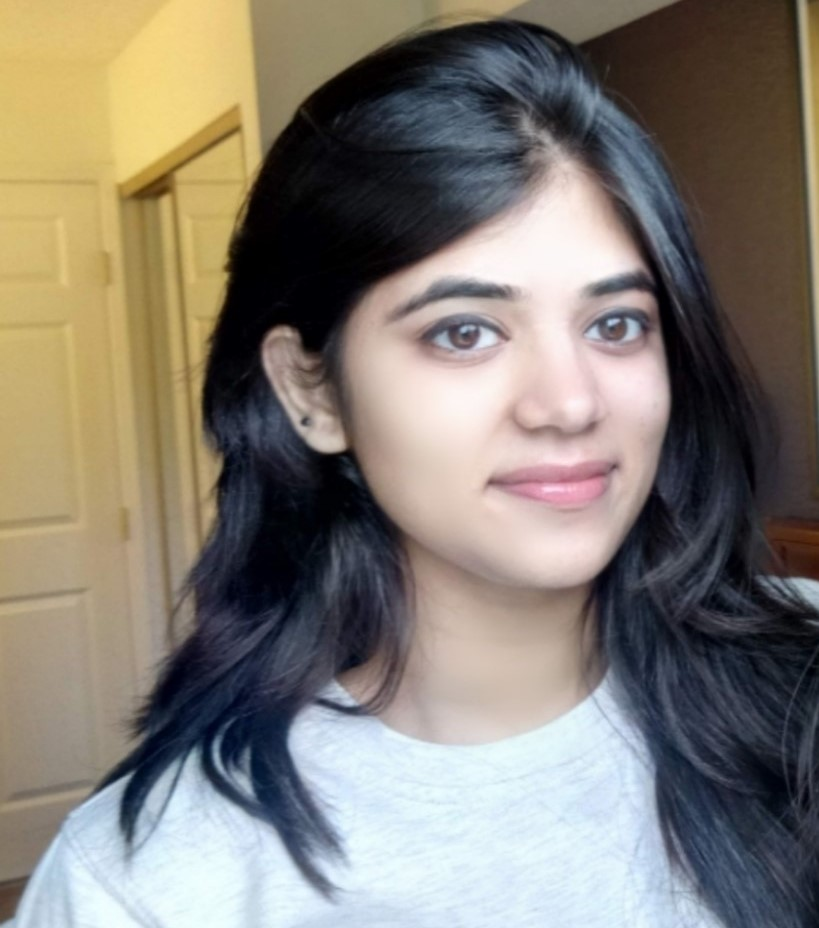
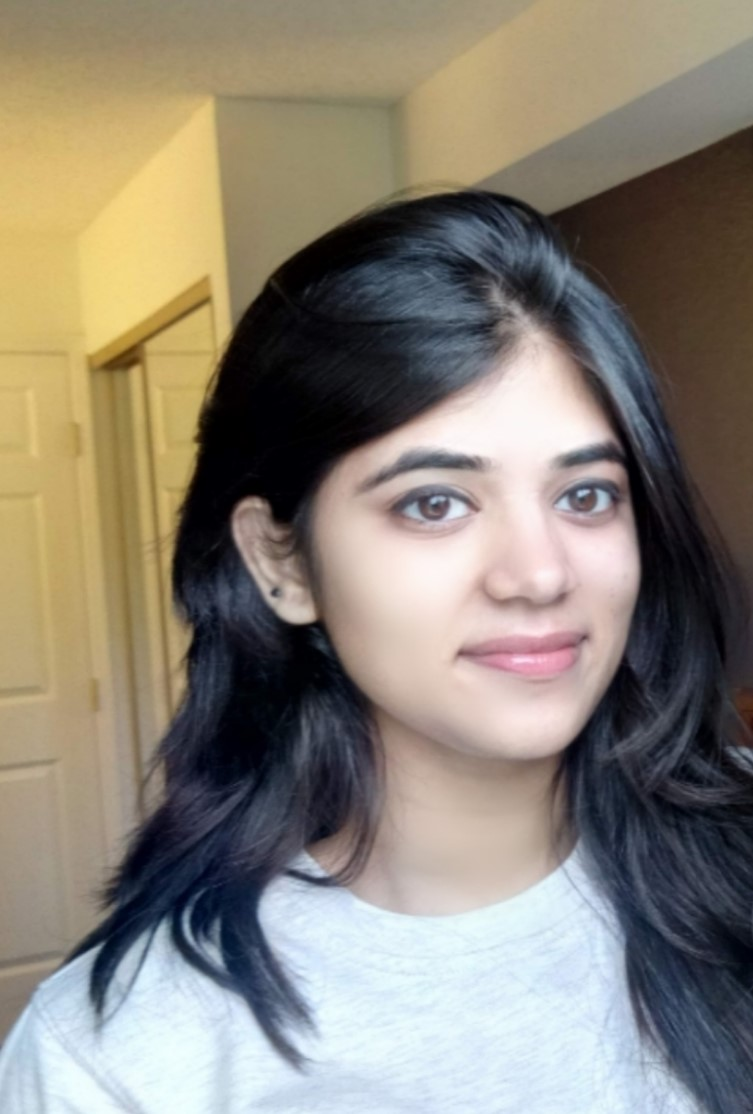
pic

diff --git a/index.html b/index.html
@@ -167,7 +167,7 @@
     <div id="profile">
 
       
-      <div class="portrait" style="background-image: url('https://shagunuppal.github.io/img/shagun_stanford.jpg');"></div>
+      <div class="portrait" style="background-image: url('https://shagunuppal.github.io/img/shagun_stanford.jpg');". height=1114px, width=753px,></div>
       <meta itemprop="image" content="https://shagunuppal.github.io/img/shagun_stanford.jpg">
       
 
